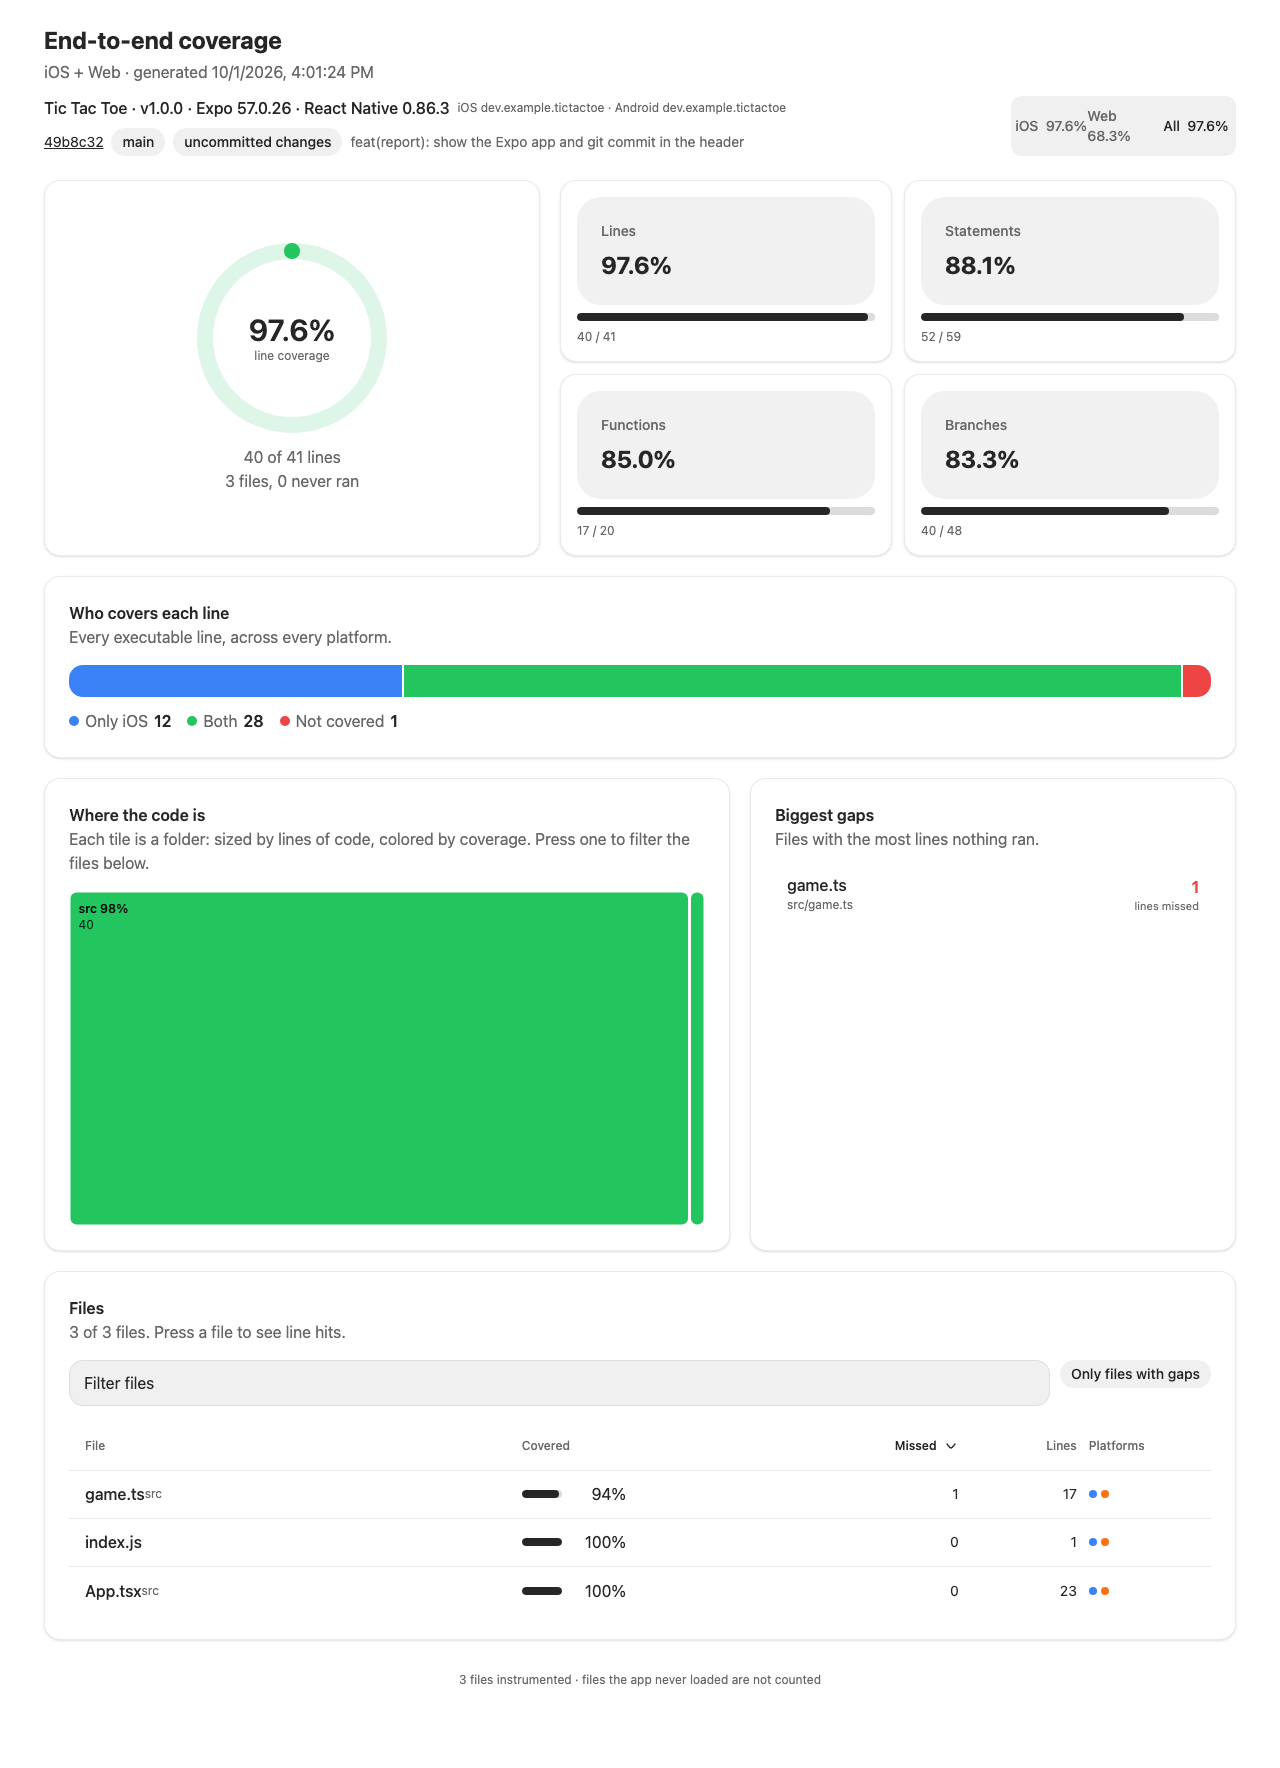
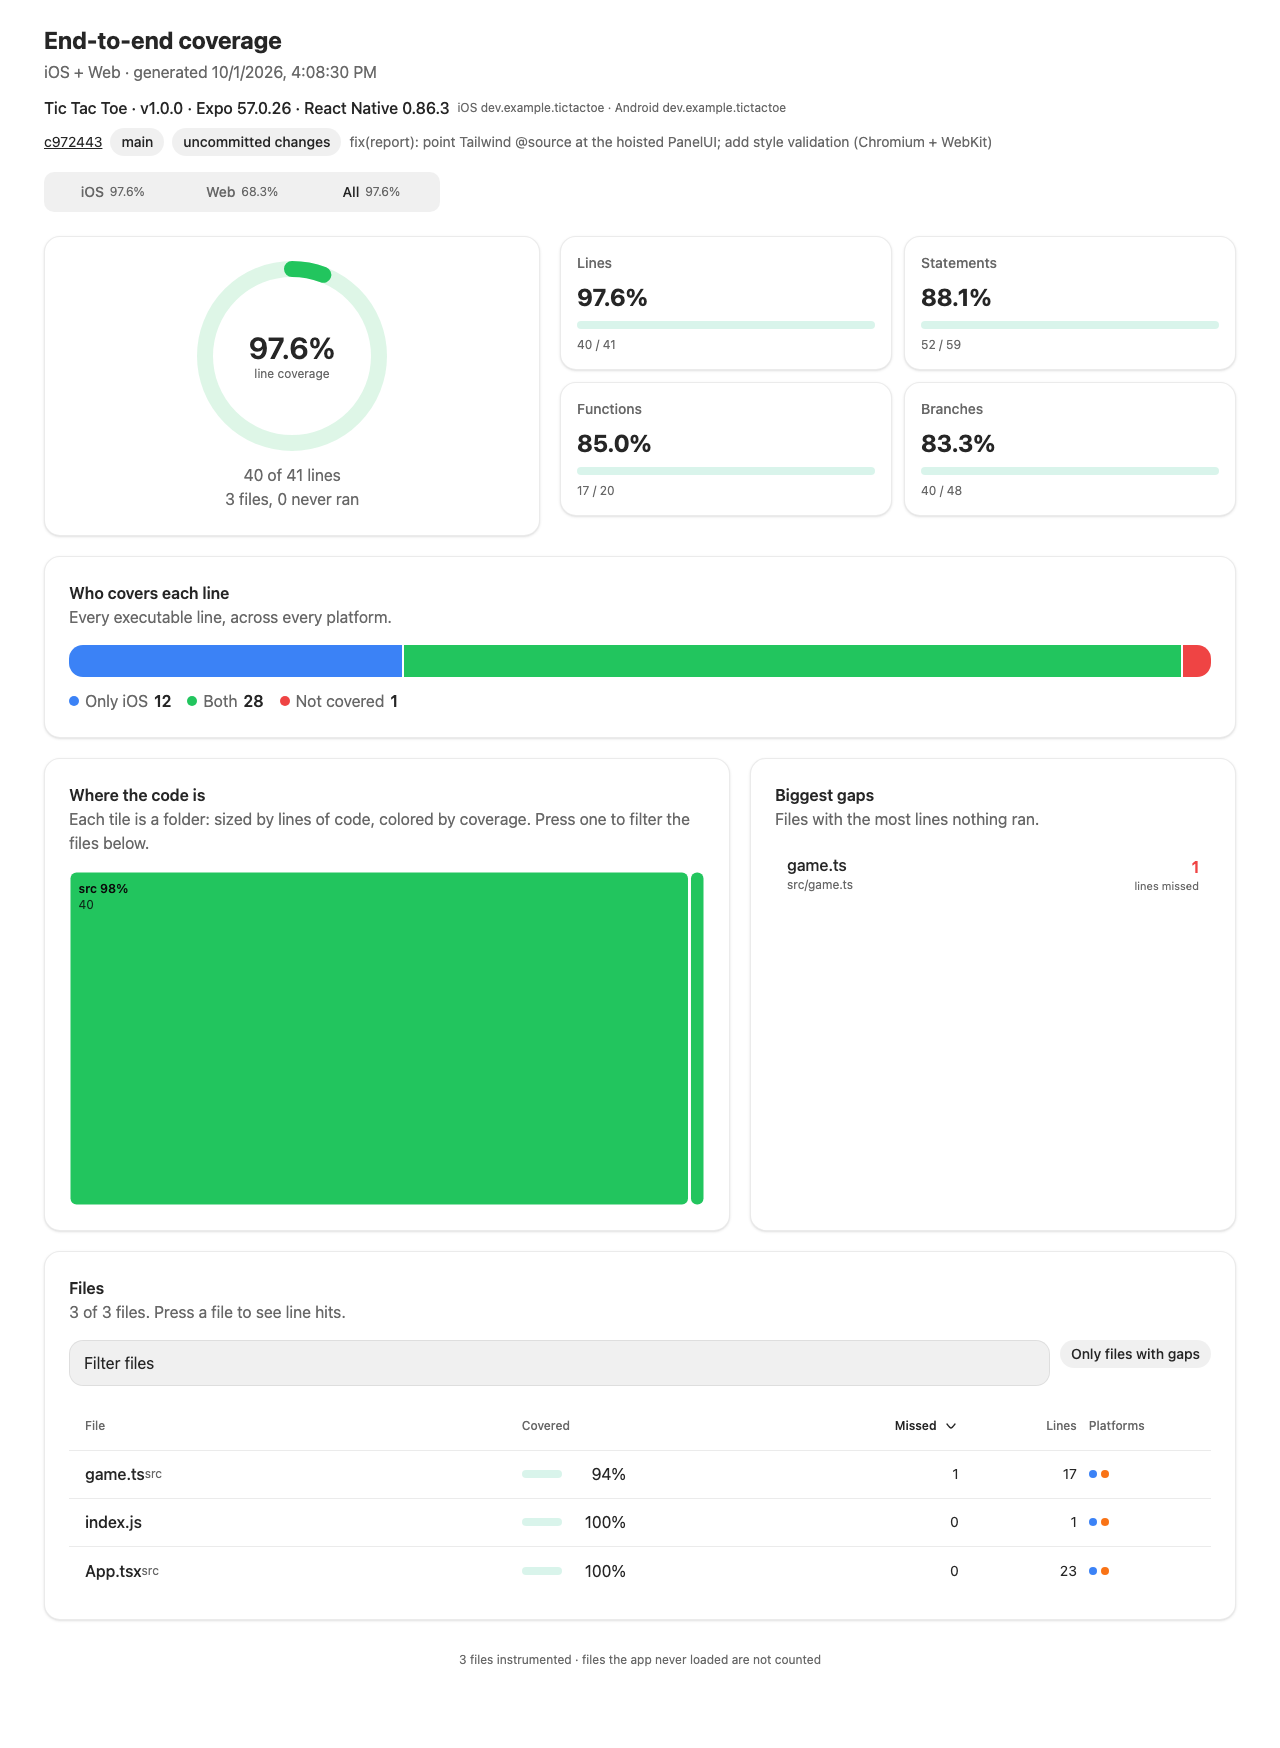
fix(report): tabs no longer truncate, colored progress bars, flat KPI cards; stricter validator

diff --git a/packages/report/src/components/Hero.tsx b/packages/report/src/components/Hero.tsx
@@ -6,7 +6,7 @@ import { RingChart } from 'panelui-native/components/ring-chart';
 import { Text } from 'panelui-native/primitives/text';
 import { fmt, health, pct, totals } from '../lib/stats';
 import type { FileEntry, Tab } from '../lib/types';
-import { HEALTH } from '../theme';
+import { HEALTH, PROGRESS_COLOR } from '../theme';
 
 const KINDS = [
   ['Lines', 'l'],
@@ -52,7 +52,7 @@ export function Hero({ files, tab }: { files: FileEntry[]; tab: Tab }) {
           const v = pct(ratio);
           return (
             <Card key={key} className="gap-2 p-4" style={{ flexGrow: 1, flexBasis: '47%', minWidth: 200 }}>
-              <Kpi>
+              <Kpi surface={false}>
                 <Kpi.Header>
                   <Kpi.Title>{label}</Kpi.Title>
                 </Kpi.Header>
@@ -60,7 +60,7 @@ export function Hero({ files, tab }: { files: FileEntry[]; tab: Tab }) {
                   <Kpi.Value>{v.toFixed(1)}%</Kpi.Value>
                 </Kpi.Content>
               </Kpi>
-              <Progress value={v} />
+              <Progress value={v} color={PROGRESS_COLOR[health(v)]} />
               <Text className="text-xs text-muted-foreground">
                 {fmt(ratio[0])} / {fmt(ratio[1])}
               </Text>

diff --git a/packages/report/src/components/Files.tsx b/packages/report/src/components/Files.tsx
@@ -6,9 +6,9 @@ import { Chip } from 'panelui-native/components/chip';
 import { Progress } from 'panelui-native/components/progress';
 import { Table } from 'panelui-native/components/table';
 import { Text } from 'panelui-native/primitives/text';
-import { LABEL, areaOf, fmt, missed, pct } from '../lib/stats';
+import { LABEL, areaOf, fmt, health, missed, pct } from '../lib/stats';
 import type { CoverageData, FileEntry, Tab } from '../lib/types';
-import { PLATFORM } from '../theme';
+import { PLATFORM, PROGRESS_COLOR } from '../theme';
 
 type SortKey = 'file' | 'pct' | 'miss' | 'lines';
 const PAGE = 50;
@@ -107,7 +107,7 @@ export function Files({ data, files, tab, folder, onFolder, onOpen }: Props) {
                 <Table.Cell>
                   <View className="flex-row items-center gap-2">
                     <View className="flex-1" style={{ minWidth: 40 }}>
-                      <Progress value={value} />
+                      <Progress value={value} color={PROGRESS_COLOR[health(value)]} />
                     </View>
                     <Text className="w-14 shrink-0 text-right text-foreground" numberOfLines={1}>{value.toFixed(0)}%</Text>
                   </View>

diff --git a/packages/report/src/components/Header.tsx b/packages/report/src/components/Header.tsx
@@ -16,15 +16,25 @@ export function Header({ data, tab, onTab }: { data: CoverageData; tab: Tab; onT
         </Text>
         <Meta data={data} />
       </View>
+      <View style={{ minWidth: tabs.length * 132, maxWidth: '100%' }}>
       <Tabs value={tab} defaultValue={tab} onValueChange={(v) => onTab(v as Tab)}>
         <Tabs.List>
           {tabs.map((t) => (
-            <Tabs.Trigger key={t} value={t}>
-              {`${LABEL[t]}  ${pct(totals(visibleFiles(data, t), t, 'l')).toFixed(1)}%`}
+            <Tabs.Trigger
+              key={t}
+              value={t}
+              badge={
+                <Text className="text-xs text-muted-foreground" numberOfLines={1}>
+                  {pct(totals(visibleFiles(data, t), t, 'l')).toFixed(1)}%
+                </Text>
+              }
+            >
+              {LABEL[t]}
             </Tabs.Trigger>
           ))}
         </Tabs.List>
       </Tabs>
+      </View>
     </View>
   );
 }

diff --git a/packages/report/src/theme.ts b/packages/report/src/theme.ts
@@ -8,3 +8,6 @@ export const OVERLAP = { some: '#8b5cf6' } as const;
 export const HIT_BG = 'rgba(34,197,94,0.10)';
 export const MISS_BG = 'rgba(239,68,68,0.14)';
 export const MONO = 'ui-monospace, "SF Mono", Menlo, Consolas, monospace';
+
+/** PanelUI Progress/Chip color per health band. */
+export const PROGRESS_COLOR = { good: 'success', warn: 'warning', bad: 'destructive' } as const;
